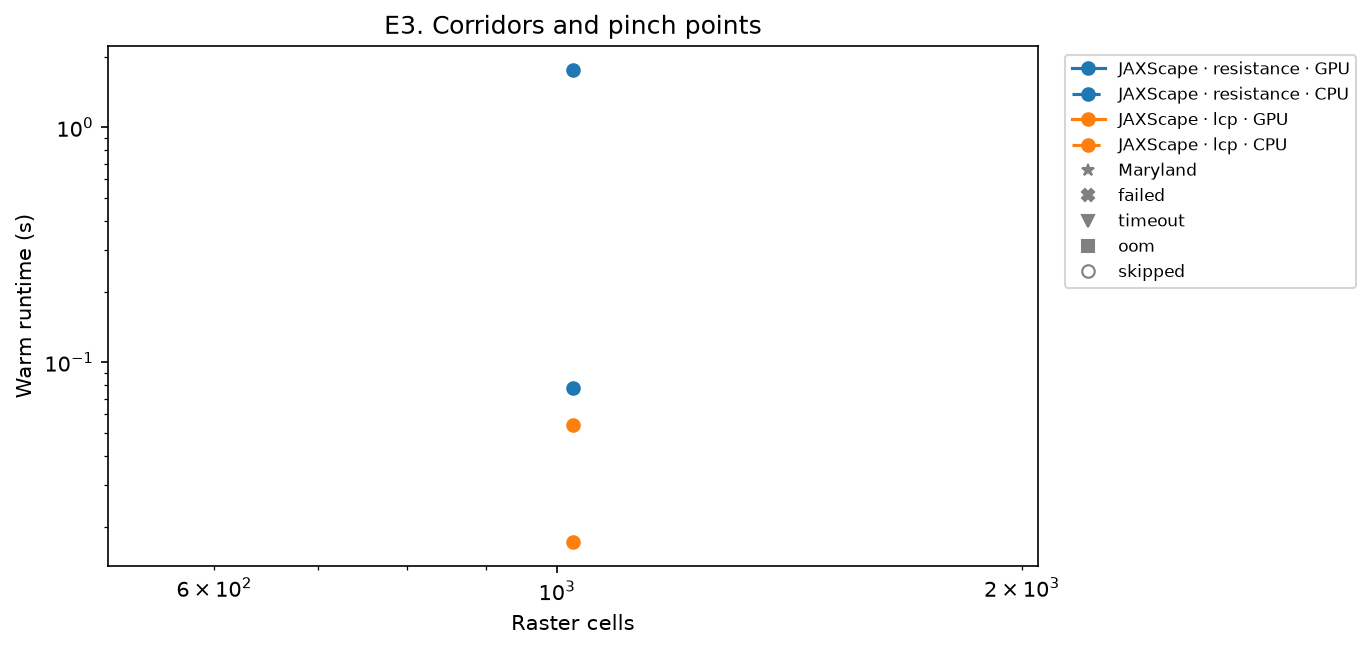
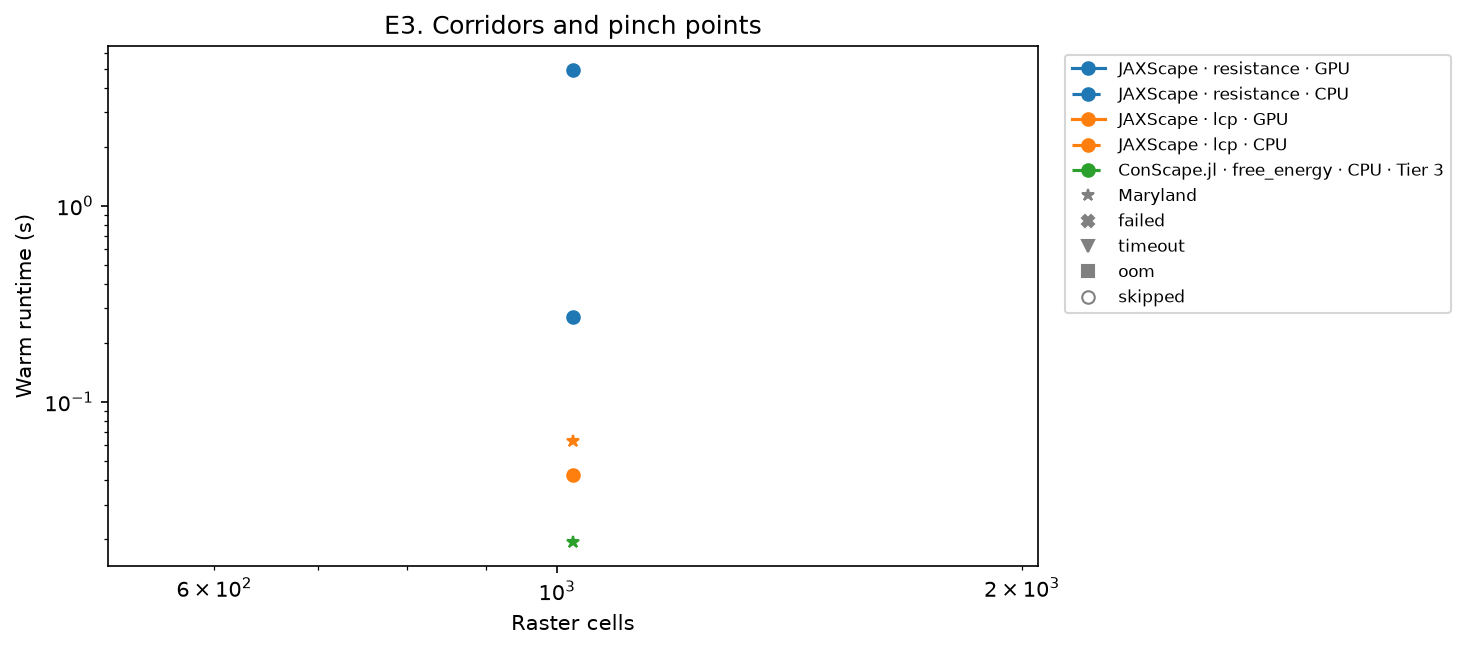
Rerun the smoke run with ConScape.jl's E2 and E3 (#80)
Every cell is ok: ConScape's maps have Spearman's rho 0.85 (E2) and
0.85 (E3) against JAXScape's least-cost maps on the 32 x 32 raster, and
0.42 and 0.68 on Maryland. The run used GPU 5 of gpunode05.

diff --git a/benchmark/results/smoke/index.md b/benchmark/results/smoke/index.md
@@ -34,7 +34,7 @@ Agreement (largest relative error) of each configuration and raster, or the stat
 | JAXScape | resistance | CPU | float32 | GridMultigridSolver | 1 | 5.8e-06 |
 | JAXScape | lcp | GPU | float32 |  | 1 | 2.5e-07 |
 | JAXScape | lcp | CPU | float32 |  | 1 | 2.4e-07 |
-| JAXScape | free_energy | GPU | float64 | CuDSSSolver | 1 | 3.8e-14 |
+| JAXScape | free_energy | GPU | float64 | CuDSSSolver | 1 | 2.0e-14 |
 | JAXScape | free_energy | CPU | float64 | CholmodSolver | 1 | 0.0e+00 |
 | Circuitscape.jl | resistance | CPU | float64 | cg+amg | 1 | 8.9e-07 |
 | Circuitscape.jl | resistance | CPU | float64 | cholmod | 1 | 4.6e-12 |
@@ -45,11 +45,11 @@ Agreement (largest relative error) of each configuration and raster, or the stat
 
 ### E2. Habitat connectivity
 
-JAXScape computes, in each call, the map of $\partial C / \partial q_i$ with `SensitivityAnalysis`, which equals $2 S_i$ for symmetric distances, and the total $C = \sum_i q_i S_i$ with `ConnectivityAnalysis`. Its windows have `dependency_range` 100 and `coarsening_factor` 0.2, which gives blocks of 21 pixels: Omniscape's `radius` and `block_size` in its Maryland example. Its proximity is the default, $e^{-r/25}$ with $r$ in equivalent pixels. The windowed analyses build their graphs with JAXScape's own edge rule: rook contiguity, and the conductance of an edge is the mean permeability of its two pixels. Free energy is left out of E2 and E3: its window query holds the dense inverse of the 40,401 pixels of a window, and in float64, the only precision that resolves its windows, one window ran out of the 24 GB of the GPU, and out of memory on the CPU after taking 300 GB.
+JAXScape computes, in each call, the map of $\partial C / \partial q_i$ with `SensitivityAnalysis`, which equals $2 S_i$ for symmetric distances, and the total $C = \sum_i q_i S_i$ with `ConnectivityAnalysis`. Its windows have `dependency_range` 100 and `coarsening_factor` 0.2, which gives blocks of 21 pixels: Omniscape's `radius` and `block_size` in its Maryland example. Its proximity is the default, $e^{-r/25}$ with $r$ in equivalent pixels. The windowed analyses build their graphs with JAXScape's own edge rule: rook contiguity, and the conductance of an edge is the mean permeability of its two pixels. Free energy is left out of E2 and E3: its window query holds the dense inverse of the 40,401 pixels of a window, and in float64, the only precision that resolves its windows, one window ran out of the 24 GB of the GPU, and out of memory on the CPU after taking 300 GB. ConScape.jl computes its maps under free energy on the whole raster, with targets at landmarks every 21 pixels and the kernel $e^{-d/25}$ on its free-energy distance $d$; JAXScape has no free-energy map to compare them with, and they are compared with its maps under least-cost distance, which ranks pairs of sites most like free energy at the $\theta$ of the run.
 
 ![E2: warm runtime against raster cells](e2.png)
 
-Status of each configuration and raster.
+Agreement (Spearman's ρ) of each configuration and raster, or the status of the cell; `missing` marks a cell whose reference is unavailable.
 
 | Tool | Distance | Device | dtype | Solver | Tier | Maryland | 32² |
 | --- | --- | --- | --- | --- | --- | --- | --- |
@@ -57,6 +57,7 @@ Status of each configuration and raster.
 | JAXScape | resistance | CPU | float32 | GridMultigridSolver |  | ok | ok |
 | JAXScape | lcp | GPU | float32 |  |  | ok | ok |
 | JAXScape | lcp | CPU | float32 |  |  | ok | ok |
+| ConScape.jl | free_energy | CPU | float64 |  | 3 | 0.42 | 0.85 |
 
 ### E3. Corridors and pinch points
 
@@ -64,7 +65,7 @@ JAXScape computes the map of $\partial C / \partial p_k$ with `SensitivityAnalys
 
 ![E3: warm runtime against raster cells](e3.png)
 
-Status of each configuration and raster.
+Agreement (Spearman's ρ) of each configuration and raster, or the status of the cell; `missing` marks a cell whose reference is unavailable.
 
 | Tool | Distance | Device | dtype | Solver | Tier | Maryland | 32² |
 | --- | --- | --- | --- | --- | --- | --- | --- |
@@ -72,6 +73,7 @@ Status of each configuration and raster.
 | JAXScape | resistance | CPU | float32 | GridMultigridSolver |  | ok | ok |
 | JAXScape | lcp | GPU | float32 |  |  | ok | ok |
 | JAXScape | lcp | CPU | float32 |  |  | ok | ok |
+| ConScape.jl | free_energy | CPU | float64 |  | 3 | 0.68 | 0.85 |
 
 ## Environment
 
@@ -84,7 +86,7 @@ Status of each configuration and raster.
 | Threads | `OMP_NUM_THREADS=16`, `OPENBLAS_NUM_THREADS=16`, `MKL_NUM_THREADS=16`, `JULIA_NUM_THREADS=16`, `RCPP_PARALLEL_NUM_THREADS=16` |
 | Python | 3.13.5 |
 | Packages | jaxscape 0.0.16, jax 0.12.0.1, jaxlib 0.12.0.1, numpy 2.5.4, scipy 1.18.1, scikit-image 0.26.0, Julia 1.13.3, Circuitscape 6.1.0, ConScape 0.3.0, JSON 1.13.4, NPZ 0.4.3, R 4.1.2, gdistance 1.6.5 |
-| Tools | JAXScape 0.0.16, Circuitscape.jl 6.1.0, ConScape.jl 0.3.0, gdistance 1.6.5, skimage.graph.MCP 0.26.0 |
+| Tools | JAXScape 0.0.16, ConScape.jl 0.3.0, Circuitscape.jl 6.1.0, gdistance 1.6.5, skimage.graph.MCP 0.26.0 |
 
 ## Parameter mappings
 
@@ -93,8 +95,8 @@ The header comment of each adapter states how it maps the shared parameters onto
 | Tool | Questions | Adapter | Mapping |
 | --- | --- | --- | --- |
 | JAXScape | E1, E2, E3 | `adapters/jaxscape.py` | JAXScape builds a `GridGraph` of the permeability raster with rook contiguity, the conductance of an edge being the harmonic mean of the permeabilities of its two pixels (`landscape.conductance`), so that its resistance is their mean resistance. Least-cost and free-energy distances take 1 / conductance as the edge cost, and the free energy takes the shared `theta`. E1 is a nodes-to-nodes query among the sites. E2 runs `SensitivityAnalysis(var="quality")` for the map and `ConnectivityAnalysis` for the total, and E3 `SensitivityAnalysis(var="permeability")`, with the shared `dependency_range` and `coarsening_factor`, the default proximity and the `batch_size` of the settings; these windowed analyses build their graphs with JAXScape's own edge rule, the mean permeability of the two pixels. The distance runs with the solver and dtype of its settings, and every call builds the graphs and the solver states. |
+| ConScape.jl | E1, E2, E3 | `adapters/conscape.jl` | ConScape.jl builds its graph with rook contiguity (`N4`), the affinity of an edge being the harmonic mean of the permeabilities of its two pixels (`AverageWeight`), as `landscape.conductance` gives, and the cost of an edge 1 / affinity (`Inv`). Its free energy takes the shared `theta`. E1 computes the free-energy distances among the sites, the targets of a `GridRSP`. ConScape's free-energy distance is directed, and the adapter returns the mean of the two directions between two sites, as JAXScape's `FreeEnergyDistance` does. E2 and E3 run on the whole raster, without windows, with targets at landmarks every b pixels (`coarse_graining`), each holding the quality of its block, where b is JAXScape's block size for the shared `dependency_range` and `coarsening_factor`: 21. E2 returns Hanski's S_i, the connected habitat of each pixel at source quality 1 (`connected_habitat`): the sum over landmarks of their quality times exp(-d / (dependency_range / 4)), exp(-d / 25), for the free-energy distance d to the landmark. E3 returns the quality-weighted betweenness (`betweenness_qweighted`). JAXScape has no free-energy map, and the configuration compares these maps with JAXScape's under least-cost distance. Free energy runs from a multiple of resistance distance, as theta falls to 0, to least-cost distance, as theta grows. On the synthetic raster of 256 pixels a side, for every theta from 1e-5 to 1.5e-2, it ranks the pairs of E1 sites as least-cost distance does (Spearman's rho 0.98 to 0.99, against 0.92 to 0.95 with resistance distance), and at theta 1.5e-4 ConScape's maps of E2 and E3 correlate more with JAXScape's under least-cost distance (rho 0.91 and 0.84) than under resistance distance (0.89 and 0.77). Every call rebuilds the affinities, the `Grid`, the landmarks and the `GridRSP`, with its sparse LU factorization, which runs on the BLAS threads of the cell. |
 | Circuitscape.jl | E1 | `adapters/circuitscape.jl` | Circuitscape.jl computes the pairwise resistances among the E1 sites, in its `pairwise` scenario, with the permeability raster as the conductance of each cell. `connect_four_neighbors_only` gives rook contiguity, and `connect_using_avg_resistances` makes the resistance of an edge the mean resistance of its two cells, as `landscape.conductance` does. The solver is `cg+amg` or `cholmod`, in double precision, with `parallelize` on the Julia threads of the cell. Circuitscape.jl has no public in-memory API for this scenario: each call builds its `RasterData` in memory and runs the internals that `compute` runs after reading files (`build_problem`, `single_ground_all_pairs`), and writes only its table of resistances, to /dev/shm. Every call rebuilds the graph, the Laplacian and the AMG hierarchy or Cholesky factor. |
-| ConScape.jl | E1 | `adapters/conscape.jl` | ConScape.jl computes the free-energy distances among the E1 sites, with the shared `theta`. Its graph has rook contiguity (`N4`), the affinity of an edge being the harmonic mean of the permeabilities of its two pixels (`AverageWeight`), as `landscape.conductance` gives, and the cost of an edge 1 / affinity (`Inv`). The sites are the targets of a `GridRSP`. ConScape's free-energy distance is directed, and the adapter returns the mean of the two directions between two sites, as JAXScape's `FreeEnergyDistance` does. Every call rebuilds the affinities, the `Grid` and the `GridRSP`, with its sparse LU factorization, which runs on the BLAS threads of the cell. |
 | gdistance | E1 | `adapters/gdistance.R` | gdistance builds a transition layer of the resistance raster, 1 / permeability, with 4 neighbours (rook contiguity) and the transition function 1 / mean(x): the conductance between two pixels is the reciprocal of their mean resistance, `landscape.conductance`. Resistance distances are `commuteDistance` divided by the volume of the graph, the sum of its conductances in both directions, and least-cost distances are `costDistance`, whose edge cost is 1 / conductance. Pixels have side 1, so `geoCorrection` leaves the layer unchanged and is left out. Every call builds the transition layer, whose conductances depend on the resistance. |
 | skimage.graph.MCP | E1 | `adapters/skimage.py` | skimage.graph.MCP_Geometric finds least-cost paths on the resistance raster, 1 / permeability, with rook contiguity (`fully_connected=False`). The cost of a step is the mean resistance of its two pixels, 1 / `landscape.conductance`, the edge cost of JAXScape. Each call builds the MCP object, and searches from each site until it reaches all the others. |
 
